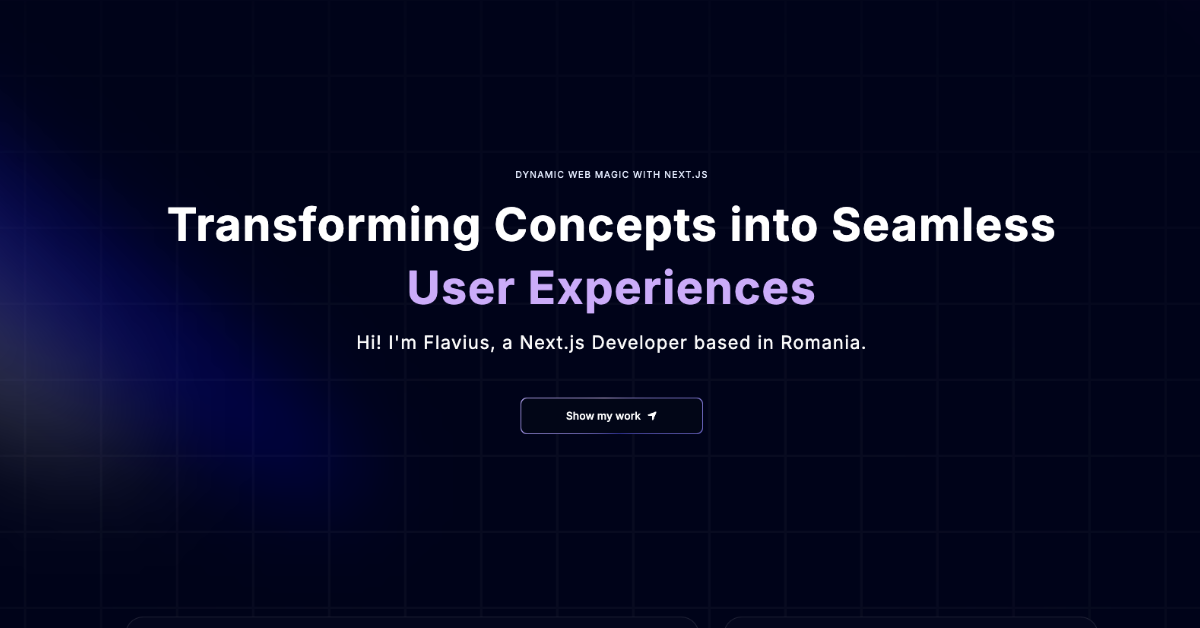
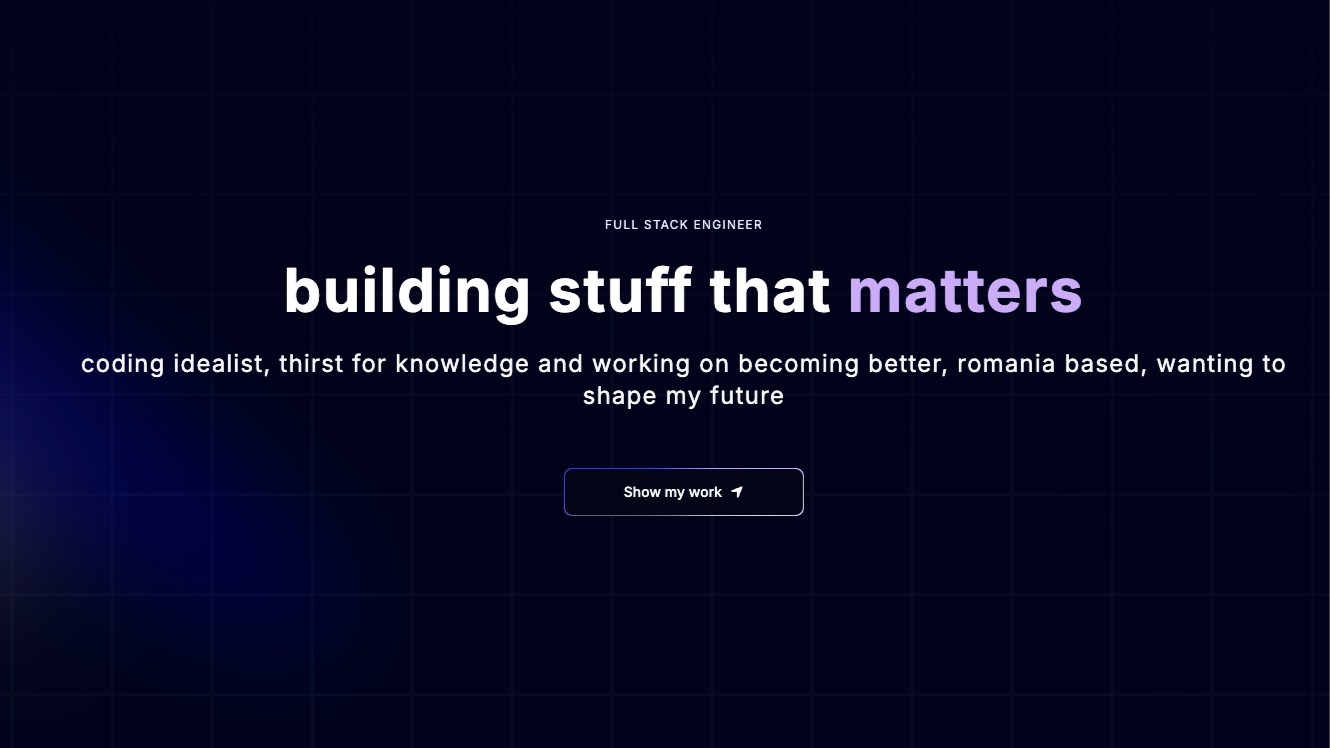
fix: add Suspense tag for searchParams & improve SEO

Changed region(s): [[0.0, 0.242, 0.9867, 0.6354], [0.4317, 0.6051, 0.6167, 0.6959], [0.4317, 0.2723, 0.5858, 0.3025]]

diff --git a/components/GoogleAnalytics.tsx b/components/GoogleAnalytics.tsx
@@ -2,18 +2,14 @@
 
 import Script from "next/script";
 import { usePathname, useSearchParams } from "next/navigation";
-import { useEffect } from "react";
+import { useEffect, Suspense } from "react";
 
-export default function GoogleAnalytics({
-  gaId = process.env.NEXT_PUBLIC_GA_MEASUREMENT_ID,
-}: {
-  gaId?: string;
-}) {
+function Analytics({ gaId }: { gaId?: string }) {
   const pathname = usePathname();
   const searchParams = useSearchParams();
 
   useEffect(() => {
-    if (!gaId || !window.gtag) return;
+    if (!gaId || typeof window === "undefined" || !window.gtag) return;
 
     const url =
       pathname +
@@ -24,6 +20,14 @@ export default function GoogleAnalytics({
     });
   }, [pathname, searchParams, gaId]);
 
+  return null;
+}
+
+export default function GoogleAnalytics({
+  gaId = process.env.NEXT_PUBLIC_GA_MEASUREMENT_ID,
+}: {
+  gaId?: string;
+}) {
   if (!gaId) {
     return null;
   }
@@ -50,6 +54,9 @@ export default function GoogleAnalytics({
           `,
         }}
       />
+      <Suspense fallback={null}>
+        <Analytics gaId={gaId} />
+      </Suspense>
     </>
   );
 }

diff --git a/data/index.ts b/data/index.ts
@@ -185,14 +185,14 @@ export const workExperience = [
     id: 2,
     title: "Lead IT of Academia SpEranței",
     desc: "Academia SpEranței was a project close to my heart, as it represents the mark I left on SiSC. I led a team of 20 passionate IT members, and together we built strong, meaningful relationships in addition to developing the website itself.",
-    className: "md:col-span-2", // change to md:col-span-2
+    className: "md:col-span-2",
     thumbnail: "/exp2.svg",
   },
   {
     id: 3,
     title: "IT Back-End Developer - SiSC",
     desc: "Professionally, I gained hands-on experience in Back-End Development, including learning Node.js and Express. On a personal level, collaborating with a team of dedicated and driven individuals helped me enhance my communication, critical thinking, and teamwork skills.",
-    className: "md:col-span-2", // change to md:col-span-2
+    className: "md:col-span-2",
     thumbnail: "/exp3.svg",
   },
   {

diff --git a/app/not-found.tsx b/app/not-found.tsx
@@ -1,0 +1,24 @@
+import Link from "next/link";
+
+export const metadata = {
+  title: "404 - Page Not Found | Flavius Cojocaru",
+  description:
+    "The page you're looking for doesn't exist. Return to the homepage of Flavius Cojocaru's portfolio.",
+};
+
+export default function NotFound() {
+  return (
+    <div className="flex flex-col items-center justify-center min-h-screen">
+      <h1 className="text-3xl font-bold mb-4">404 - Page Not Found</h1>
+      <p className="mb-6">
+        The page you&apos;re looking for doesn&apos;t exist.
+      </p>
+      <Link
+        href="/"
+        className="px-4 py-2 bg-blue-500 text-white rounded hover:bg-blue-600 transition-colors"
+      >
+        Return Home
+      </Link>
+    </div>
+  );
+}

diff --git a/app/page.tsx b/app/page.tsx
@@ -1,5 +1,3 @@
-"use client";
-
 import Approach from "@/components/Approach";
 import Clients from "@/components/Clients";
 import Experience from "@/components/Experience";
@@ -9,6 +7,12 @@ import Hero from "@/components/Hero";
 import RecentProjects from "@/components/RecentProjects";
 import { FloatingNav } from "@/components/ui/FloatingNav";
 import { navItems } from "@/data";
+
+export const metadata = {
+  title: "Flavius Cojocaru | Home",
+  description:
+    "Full-stack web developer specialized in Next.js, React, and TypeScript. Building applications that matter with a focus on user experience and performance.",
+};
 
 export default function Home() {
   return (

diff --git a/app/robots.ts b/app/robots.ts
@@ -2,11 +2,14 @@ import { MetadataRoute } from "next";
 
 export default function robots(): MetadataRoute.Robots {
   return {
-    rules: {
-      userAgent: "*",
-      allow: "/",
-      disallow: "/api/",
-    },
+    rules: [
+      {
+        userAgent: "*",
+        allow: "/",
+        disallow: ["/api/", "/_next/"],
+      },
+    ],
     sitemap: "https://flavius.pro/sitemap.xml",
+    host: "https://flavius.pro",
   };
 }

diff --git a/components/ui/CanvasRevealEffect.tsx b/components/ui/CanvasRevealEffect.tsx
@@ -250,11 +250,10 @@ const ShaderMaterial = ({
     preparedUniforms["u_time"] = { value: 0, type: "1f" };
     preparedUniforms["u_resolution"] = {
       value: new THREE.Vector2(size.width * 2, size.height * 2),
-    }; // Initialize u_resolution
+    };
     return preparedUniforms;
   };
 
-  // Shader material
   const material = useMemo(() => {
     const materialObject = new THREE.ShaderMaterial({
       vertexShader: `

diff --git a/components/Grid.tsx b/components/Grid.tsx
@@ -13,8 +13,6 @@ const Grid = () => {
             key={i}
             title={item.title}
             description={item.description}
-            // remove icon prop
-            // remove original classname condition
             className={item.className}
             img={item.img}
             imgClassName={item.imgClassName}

diff --git a/components/ui/FloatingNav.tsx b/components/ui/FloatingNav.tsx
@@ -25,7 +25,6 @@ export const FloatingNav = ({
   const [visible, setVisible] = useState(false);
 
   useMotionValueEvent(scrollYProgress, "change", (current) => {
-    // Check if current is not undefined and is a number
     if (typeof current === "number") {
       let direction = current! - scrollYProgress.getPrevious()!;
 

diff --git a/components/ui/Globe.tsx b/components/ui/Globe.tsx
@@ -135,7 +135,6 @@ export function Globe({ globeConfig, data }: WorldProps) {
       });
     }
 
-    // remove duplicates for same lat and lng
     const filteredPoints = points.filter(
       (v, i, a) =>
         a.findIndex((v2) =>
